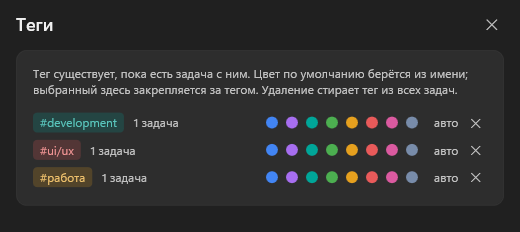
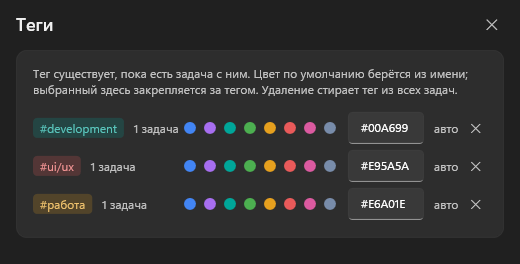
Колесо мыши, висящее поле описания, свой цвет тега
Колесо над списком не прокручивало окно: внутренний ScrollViewer у ListBox
съедает событие даже с выключенной прокруткой, и крутить получалось только
наведя курсор на саму полосу. Теперь содержимое области крутится своим
обработчиком; чеклист карточки пропускаем — там колесо принадлежит ему.

Поле описания, открытое по Tab и покинутое пустым, оставалось висеть над
вводом до перезапуска. Закрывается по уходу фокуса — любому.

Цвет тега можно задать своим кодом #RRGGBB, а не только выбрать из восьми
готовых. В настройках вместо номера оттенка теперь либо номер, либо цвет.

diff --git a/src/QuickJot/TagsWindow.xaml b/src/QuickJot/TagsWindow.xaml
@@ -137,8 +137,16 @@
                                             </ItemsControl.ItemTemplate>
                                         </ItemsControl>
 
+                                        <!-- Свой цвет кодом: пресетов восемь, а оттенков нужно больше. -->
+                                        <TextBox Text="{Binding CustomText, UpdateSourceTrigger=PropertyChanged}"
+                                                 Width="76"
+                                                 Margin="8,0,0,0"
+                                                 FontSize="12"
+                                                 VerticalContentAlignment="Center"
+                                                 ToolTip="Свой цвет: #RRGGBB" />
+
                                         <Button Content="авто" Style="{StaticResource Plain}" FontSize="12"
-                                                Margin="6,0,0,0"
+                                                Margin="4,0,0,0"
                                                 Command="{Binding PickCommand}" />
                                     </StackPanel>
 

diff --git a/src/QuickJot/MainWindow.xaml b/src/QuickJot/MainWindow.xaml
@@ -345,6 +345,7 @@
                      Margin="0,0,0,6"
                      MinHeight="56"
                      MaxHeight="160"
+                     LostKeyboardFocus="OnNoteLostFocus"
                      Visibility="{Binding IsNoteOpen, Converter={StaticResource BoolToVisibility}}"
                      Text="{Binding NoteDraft, UpdateSourceTrigger=PropertyChanged}" />
 
@@ -357,7 +358,7 @@
             <!-- Одна прокручиваемая область на список, пустое состояние и блок выполненного:
                  потолок высоты считается одним числом, а не по каждому списку отдельно (раздел 5). -->
             <ScrollViewer x:Name="Scroll" Grid.Row="3" VerticalScrollBarVisibility="Auto">
-              <StackPanel x:Name="ScrollContent">
+              <StackPanel x:Name="ScrollContent" PreviewMouseWheel="OnListMouseWheel">
 
             <ListBox x:Name="List"
                      ItemsSource="{Binding Tasks}"

diff --git a/src/QuickJot/ViewModels/TagsViewModel.cs b/src/QuickJot/ViewModels/TagsViewModel.cs
@@ -51,9 +51,9 @@ public sealed partial class TagsViewModel : ObservableObject
         OnPropertyChanged(nameof(IsEmpty));
     }
 
-    private void OnColorChosen(TagRowViewModel row, int? index)
+    private void OnColorChosen(TagRowViewModel row, string? chosen)
     {
-        _colors.Choose(row.Name, index);
+        _colors.Choose(row.Name, chosen);
         ColorsChanged?.Invoke();
     }
 
@@ -73,7 +73,7 @@ public sealed partial class TagRowViewModel : ObservableObject
 {
     private readonly bool _dark;
 
-    public TagRowViewModel(string name, int count, int? chosen, bool dark)
+    public TagRowViewModel(string name, int count, string? chosen, bool dark)
     {
         Name = name;
         Count = count;
@@ -82,6 +82,7 @@ public sealed partial class TagRowViewModel : ObservableObject
 
         // «Авто» — такой же вариант выбора, как цвет: им сбрасывают ручной цвет обратно.
         Swatches = [.. Enumerable.Range(0, TagPalette.Count).Select(index => new TagSwatch(index, dark))];
+        _customText = TagPalette.ToStored(Hue);
 
         UpdateSelection();
     }
@@ -97,33 +98,76 @@ public sealed partial class TagRowViewModel : ObservableObject
     public IReadOnlyList<TagSwatch> Swatches { get; }
 
     [ObservableProperty]
-    private int? _chosen;
+    private string? _chosen;
+
+    /// <summary>
+    /// Свой цвет как «#RRGGBB». Применяется по мере набора: как только строка стала цветом,
+    /// чип перекрашивается — отдельной кнопки «применить» для шести символов заводить незачем.
+    /// </summary>
+    [ObservableProperty]
+    private string _customText;
+
+    /// <summary>Поле обновляют кружки палитры — это не выбор пользователя и применять его не надо.</summary>
+    private bool _syncing;
+
+    partial void OnCustomTextChanged(string value)
+    {
+        if (_syncing) return;
+        if (!TryParse(value, out var color) || TagPalette.ToStored(color) == TagPalette.ToStored(Hue)) return;
+
+        Apply(TagPalette.ToStored(color));
+    }
+
+    private static bool TryParse(string? text, out Color color)
+    {
+        color = default;
+        if (string.IsNullOrWhiteSpace(text) || text.TrimStart()[0] != '#') return false;
+
+        try
+        {
+            color = (Color)ColorConverter.ConvertFromString(text.Trim());
+            return true;
+        }
+        catch
+        {
+            return false; // недописанный «#3A7» — это ещё не цвет, а не ошибка
+        }
+    }
 
     public bool IsAuto => Chosen is null;
 
-    public Brush Background => TagPalette.Background(Index, _dark);
+    public Brush Background => TagPalette.Background(Hue, _dark);
 
-    public Brush Foreground => TagPalette.Foreground(Index, _dark);
+    public Brush Foreground => TagPalette.Foreground(Hue, _dark);
 
-    private int Index => Chosen ?? TagPalette.IndexOf(Name);
+    private Color Hue => TagPalette.Resolve(Chosen, Name);
 
     /// <summary>Подтверждение удаления прямо в строке: тег стирается сразу из всех задач.</summary>
     [ObservableProperty]
     private bool _isConfirming;
 
-    public event Action<TagRowViewModel, int?>? ColorChosen;
+    public event Action<TagRowViewModel, string?>? ColorChosen;
 
     public event Action<TagRowViewModel>? DeleteConfirmed;
 
     [RelayCommand]
-    private void Pick(object? parameter)
+    private void Pick(object? parameter) =>
+        Apply(parameter is TagSwatch swatch ? swatch.Index.ToString() : null);
+
+    private void Apply(string? chosen)
     {
-        Chosen = parameter is TagSwatch swatch ? swatch.Index : null;
+        Chosen = chosen;
         UpdateSelection();
 
         OnPropertyChanged(nameof(Background));
         OnPropertyChanged(nameof(Foreground));
         OnPropertyChanged(nameof(IsAuto));
+
+        // Поле кода держится в согласии с выбранным кружком, но само себя не перезапускает.
+        _syncing = true;
+        CustomText = TagPalette.ToStored(Hue);
+        _syncing = false;
+
         ColorChosen?.Invoke(this, Chosen);
     }
 
@@ -138,7 +182,7 @@ public sealed partial class TagRowViewModel : ObservableObject
 
     private void UpdateSelection()
     {
-        foreach (var swatch in Swatches) swatch.IsSelected = swatch.Index == Chosen;
+        foreach (var swatch in Swatches) swatch.IsSelected = swatch.Index.ToString() == Chosen;
     }
 }
 
@@ -149,7 +193,7 @@ public sealed partial class TagSwatch(int index, bool dark) : ObservableObject
 
     public Brush Fill { get; } = new SolidColorBrush(TagPalette.Hue(index));
 
-    public Brush Ring { get; } = TagPalette.Foreground(index, dark);
+    public Brush Ring { get; } = TagPalette.Foreground(TagPalette.Hue(index), dark);
 
     [ObservableProperty]
     private bool _isSelected;

diff --git a/src/QuickJot/Data/TagColors.cs b/src/QuickJot/Data/TagColors.cs
@@ -1,23 +1,24 @@
 namespace QuickJot.Data;
 
 /// <summary>
-/// Выбранные вручную цвета тегов — раздел 13. Хранятся одной строкой «тег=номер тег=номер»:
+/// Выбранные вручную цвета тегов — раздел 13. Хранятся одной строкой «тег=цвет тег=цвет»:
 /// теги нормализованы и не содержат ни пробела, ни знака равенства, так что разбор однозначен.
+/// Значение — либо номер оттенка из палитры, либо свой цвет как «#RRGGBB».
 /// Тега, которому цвет не назначали, здесь нет — он берёт цвет из имени.
 /// </summary>
 public sealed class TagColors(SettingsStore settings)
 {
-    private Dictionary<string, int>? _map;
+    private Dictionary<string, string>? _map;
 
-    private Dictionary<string, int> Map => _map ??= Read();
+    private Dictionary<string, string> Map => _map ??= Read();
 
     /// <summary>null — цвет не задан, берётся автоматический.</summary>
-    public int? Chosen(string tag) => Map.TryGetValue(tag, out int index) ? index : null;
+    public string? Chosen(string tag) => Map.TryGetValue(tag, out var value) ? value : null;
 
-    public void Choose(string tag, int? index)
+    public void Choose(string tag, string? value)
     {
-        if (index is null) Map.Remove(tag);
-        else Map[tag] = index.Value;
+        if (value is null) Map.Remove(tag);
+        else Map[tag] = value;
 
         Write();
     }
@@ -28,16 +29,16 @@ public sealed class TagColors(SettingsStore settings)
         if (Map.Remove(tag)) Write();
     }
 
-    private Dictionary<string, int> Read()
+    private Dictionary<string, string> Read()
     {
-        var map = new Dictionary<string, int>();
+        var map = new Dictionary<string, string>();
         var stored = settings.Get(SettingKeys.TagColors);
         if (string.IsNullOrWhiteSpace(stored)) return map;
 
         foreach (var pair in stored.Split(' ', StringSplitOptions.RemoveEmptyEntries))
         {
             var parts = pair.Split('=');
-            if (parts.Length == 2 && int.TryParse(parts[1], out int index)) map[parts[0]] = index;
+            if (parts.Length == 2 && parts[1].Length > 0) map[parts[0]] = parts[1];
         }
 
         return map;

diff --git a/src/QuickJot/TagPalette.cs b/src/QuickJot/TagPalette.cs
@@ -26,6 +26,22 @@ internal static class TagPalette
     public static Color Hue(int index) => Hues[((index % Count) + Count) % Count];
 
     /// <summary>
+    /// Во что превращается сохранённый выбор: номер оттенка, свой цвет «#RRGGBB» или,
+    /// если не выбрано ничего, оттенок, посчитанный из имени.
+    /// </summary>
+    public static Color Resolve(string? chosen, string tag)
+    {
+        if (string.IsNullOrWhiteSpace(chosen)) return Hue(IndexOf(tag));
+        if (int.TryParse(chosen, out int index)) return Hue(index);
+
+        try { return (Color)ColorConverter.ConvertFromString(chosen); }
+        catch { return Hue(IndexOf(tag)); } // испорченное значение не должно ронять список
+    }
+
+    /// <summary>Цвет в том виде, в каком он ложится в настройки.</summary>
+    public static string ToStored(Color color) => $"#{color.R:X2}{color.G:X2}{color.B:X2}";
+
+    /// <summary>
     /// Свой хеш, а не string.GetHashCode: тот в .NET рандомизируется при каждом запуске,
     /// и цвет тега менялся бы от запуска к запуску.
     /// </summary>
@@ -38,16 +54,10 @@ internal static class TagPalette
     }
 
     /// <summary>Подложка чипа: тот же оттенок, но прозрачный, чтобы не спорить с Mica.</summary>
-    public static SolidColorBrush Background(int index, bool dark)
-    {
-        var hue = Hue(index);
-        return new SolidColorBrush(Color.FromArgb(dark ? (byte)0x33 : (byte)0x28, hue.R, hue.G, hue.B));
-    }
+    public static SolidColorBrush Background(Color hue, bool dark) =>
+        new(Color.FromArgb(dark ? (byte)0x33 : (byte)0x28, hue.R, hue.G, hue.B));
 
     /// <summary>Текст чипа: на тёмном фоне оттенок осветляется, на светлом — затемняется.</summary>
-    public static SolidColorBrush Foreground(int index, bool dark)
-    {
-        var hue = Hue(index);
-        return new SolidColorBrush(dark ? Theme.Lightened(hue, 0.35) : Theme.Darkened(hue, 0.35));
-    }
+    public static SolidColorBrush Foreground(Color hue, bool dark) =>
+        new(dark ? Theme.Lightened(hue, 0.35) : Theme.Darkened(hue, 0.35));
 }

diff --git a/src/QuickJot/MainWindow.xaml.cs b/src/QuickJot/MainWindow.xaml.cs
@@ -722,6 +722,31 @@ public partial class MainWindow : Window
         Dispatcher.BeginInvoke(() => Note.Focus(), DispatcherPriority.Input);
     }
 
+    /// <summary>
+    /// Колесо мыши над списком. Внутренний ScrollViewer у ListBox съедает событие, даже когда
+    /// прокручивать ему нечего, — поэтому крутим внешнюю область сами. Чеклист внутри карточки
+    /// со своей прокруткой пропускаем: там колесо принадлежит ему.
+    /// </summary>
+    private void OnListMouseWheel(object sender, MouseWheelEventArgs e)
+    {
+        for (var node = e.OriginalSource as DependencyObject; node is not null; node = VisualTreeHelper.GetParent(node))
+        {
+            if (node is ListBox { Name: "SubtaskList" }) return;
+        }
+
+        Scroll.ScrollToVerticalOffset(Scroll.VerticalOffset - e.Delta);
+        e.Handled = true;
+    }
+
+    /// <summary>
+    /// Поле заметки при создании задачи закрывается, как только из него ушли пустым — раздел 7.
+    /// Иначе оно висит поверх ввода до перезапуска: черновик пуст, а место занято.
+    /// </summary>
+    private void OnNoteLostFocus(object sender, RoutedEventArgs e)
+    {
+        if (string.IsNullOrWhiteSpace(Note.Text)) _viewModel.IsNoteOpen = false;
+    }
+
     /// <summary>Esc из заметки: фокус в заголовок, но непустое поле остаётся раскрытым — раздел 7.</summary>
     private void ReturnToTitle()
     {

diff --git a/src/QuickJot/ViewModels/MainViewModel.cs b/src/QuickJot/ViewModels/MainViewModel.cs
@@ -352,11 +352,11 @@ public sealed partial class MainViewModel : ObservableObject
 
     private TagChip MakeChip(string tag)
     {
-        int index = _tagColors?.Chosen(tag) ?? TagPalette.IndexOf(tag);
+        var hue = TagPalette.Resolve(_tagColors?.Chosen(tag), tag);
         // Полное имя: у самой модели есть свойство Theme, и оно перекрывает класс.
         bool dark = QuickJot.Theme.IsDark(Theme);
 
-        return new TagChip(tag, TagPalette.Background(index, dark), TagPalette.Foreground(index, dark));
+        return new TagChip(tag, TagPalette.Background(hue, dark), TagPalette.Foreground(hue, dark));
     }
 
     /// <summary>

diff --git a/spec-quick-tasks.md b/spec-quick-tasks.md
@@ -129,7 +129,8 @@
 
 - Раскрывается по `Tab` из заголовка, фокус переходит туда. При **пустом заголовке `Tab` не делает ничего** (без сообщений об ошибке).
 - Многострочное. `Tab` внутри уводит фокус дальше, табуляцию не вставляет. `Shift+Tab` — обратно в заголовок.
-- `Esc` возвращает фокус в заголовок, но **поле остаётся раскрытым, пока в нём есть текст**. Сворачивается только пустое. Скрытого состояния «невидимая заметка у создаваемой задачи» быть не должно.
+- `Esc` возвращает фокус в заголовок, но **поле остаётся раскрытым, пока в нём есть текст**. Скрытого состояния «невидимая заметка у создаваемой задачи» быть не должно.
+- **Пустое поле закрывается по уходу фокуса** — любому: `Shift+Tab`, `Esc`, клик мимо, скрытие окна. Иначе оно висит над вводом до перезапуска приложения, ничего не содержа.
 - Фильтрация списка во время написания заметки **продолжает работать** в том состоянии, в каком была.
 
 ### Правило Enter (сквозное для приложения)
@@ -207,7 +208,7 @@
 - Решётка в середине слова тегом не делает: `C#` остаётся текстом. Тег кончается на первом же постороннем символе; допустимы буквы, цифры, `_ - / .`, до 24 символов, регистр приводится к нижнему.
 - **Правка тегов — это правка строки заголовка.** `Enter` на карточке показывает `заголовок #тег`, теги правятся как обычный текст. Отдельного редактора тегов нет.
 - **Клик по чипу отбирает задачи с этим тегом** — в поле ввода подставляется `#тег`.
-- Цвет берётся из имени тега, поэтому один и тот же тег всегда одного цвета; выбранный в окне тегов цвет перебивает вычисленный. Восемь оттенков — больше на глаз в списке не различается.
+- Цвет берётся из имени тега, поэтому один и тот же тег всегда одного цвета; выбранный в окне тегов цвет перебивает вычисленный. Восемь готовых оттенков плюс свой цвет кодом `#RRGGBB`.
 - Чипы видны и у свёрнутой карточки: тег нужен, чтобы узнавать задачу в списке.
 
 ### Чеклист (v1.1)
@@ -441,7 +442,7 @@ CREATE TABLE settings (
 Отдельное окно, открывается из меню в трее. В нём всё, чего нет в справочнике тегов, потому что справочника нет:
 
 - список тегов с числом задач у каждого;
-- палитра из восьми цветов и «авто» — вернуть цвет, вычисленный из имени;
+- палитра из восьми цветов, поле для своего цвета кодом `#RRGGBB` и «авто» — вернуть цвет, вычисленный из имени;
 - удаление тега: подтверждение прямо в строке, затем тег стирается **из всех задач сразу**.
 
 Переименования нет: тег правится в самих задачах.
@@ -507,6 +508,7 @@ CREATE TABLE settings (
 4. **Хоткей — на message-only окне**, не на главном.
 5. **`AllowsTransparency` не использовать.**
 6. **Мультимонитор и per-monitor DPI** — `PerMonitorV2` в манифесте, позиционирование по `MonitorFromPoint` + `WorkArea`. Классический источник багов при связке «ноутбук + внешний монитор» с разным масштабом.
+7. **Колесо мыши над вложенным списком.** `ListBox` внутри `ScrollViewer` съедает `MouseWheel` своим внутренним `ScrollViewer` — даже когда прокрутка у него выключена и крутить нечего. Внешняя область при этом не двигается, и колесо работает, только если навести курсор ровно на полосу прокрутки. Лечится обработчиком `PreviewMouseWheel` на содержимом: он крутит внешнюю область сам, пропуская только чеклист карточки, у которого своя прокрутка есть.
 
 ---
 

diff --git a/README.md b/README.md
@@ -12,7 +12,7 @@
 - **Поле ввода одновременно создаёт и фильтрует.** `Enter` создаёт задачу всегда, даже при точном совпадении с существующей; совпадения в списке подсвечиваются. Недописанный текст переживает закрытие окна.
 - **Заметки** — раскрываются по `Tab`, живут в карточке, разворот запоминается между открытиями.
 - **Чеклист внутри задачи.** Большую задачу можно разложить на мини-задачи; пункты живут под заметкой. Клавиши те же, что у списка задач. Поиск ищет и по пунктам. Сколько пунктов видно без прокрутки — в настройках, чтобы длинный список не растянул одну задачу на всё окно.
-- **Теги.** Пишутся прямо в строке задачи: `Перенести радар #работа`. По `#` открывается подсказка с существующими тегами и числом задач у каждого; `Tab` подставляет, а если такого тега ещё нет — та же строка его создаёт. Клик по чипу отбирает задачи с этим тегом. Цвет считается из имени, а в окне «Теги» (меню в трее) его можно закрепить вручную и удалить тег сразу из всех задач.
+- **Теги.** Пишутся прямо в строке задачи: `Перенести радар #работа`. По `#` открывается подсказка с существующими тегами и числом задач у каждого; `Tab` подставляет, а если такого тега ещё нет — та же строка его создаёт. Клик по чипу отбирает задачи с этим тегом. Цвет считается из имени, а в окне «Теги» (меню в трее) его можно закрепить вручную — восемь готовых оттенков или свой код `#RRGGBB` — и удалить тег сразу из всех задач.
 - **Карточка без иконок.** Ни мусорки, ни служебных значков: заметка и пункты видны сами, когда они есть, а задача без них — это одна строка.
 - **Важность** полоской по левому краю, ручной порядок drag&drop и `Alt+↑↓`.
 - **Блок «Выполнено сегодня»** — выполненная задача уезжает туда через 1.5 секунды и возвращается на прежнее место, если снять галочку. Сбрасывается по локальной полуночи.
